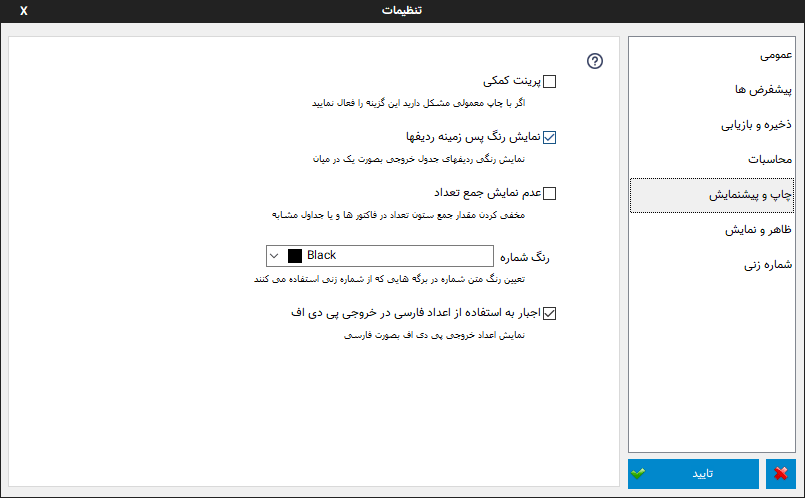
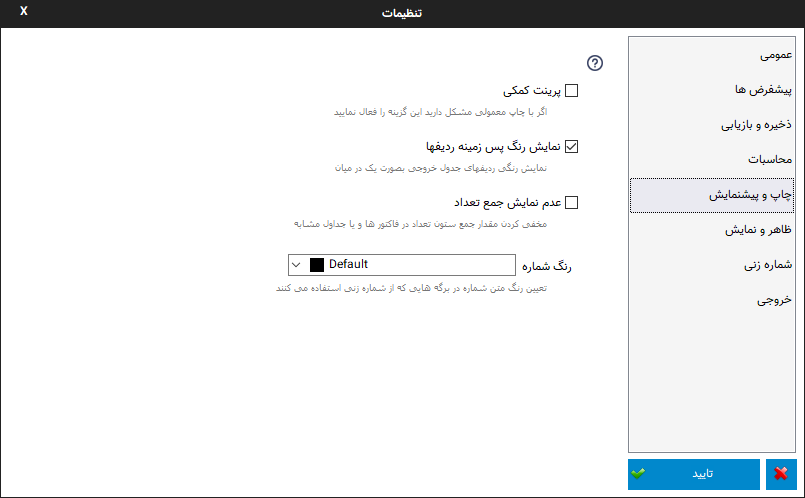
rc740

diff --git a/docs/source/conf.py b/docs/source/conf.py
@@ -20,11 +20,11 @@
 # -- Project information -----------------------------------------------------
 
 project = u' راهنمای نرم افزار فاکتور'
-copyright = u'2020, Mohsensoft'
+copyright = u'2021, Mohsensoft'
 author = u'Mohsen Bahraminejad, Mohammad reza khalifeh'
 
 # The short X.Y version
-version = u'2.8'
+version = u'2.9'
 # The full version, including alpha/beta/rc tags
 release = u'.rst'
 

diff --git a/docs/source/window-settings.rst b/docs/source/window-settings.rst
@@ -101,7 +101,7 @@
 | **نمایش رنگ پس زمینه ردیفها :** برای حذف رنگ پس زمینه ردیفهای فاکتور که معمولا بصورت یک در میان برای تمایز و تشخیص بهتر ردیفها کشیده می شوند از این گزینه استفاده کنید. توجه کنید که این گزینه در برگه های جدید که از این حالت پشتیبانی می کنند قابل انجام است.
 | **عدم نمایش جمع تعداد :** در صورتی که به نمایش جمع ستون تعداد در برگه هایی نظیر فاکتور نیاز ندارید و یا نمایش آن بخاطر مواردی نظیر عدم یکی بودن واحد ها معنیی ندارد میتوانید این گزینه را فعال نمایید.
 | **رنگ شماره :** توسط این گزینه میتوانید رنگ مقدار شماره در برگه هایی که این فیلد را دارند تعیین نمایید.
-| **اجبار به استفاده از اعداد فارسی در خروجی پی دی اف :** اگر نیاز ندارید که در خروجی پی دی اف اعداد بصورت کاراکترهای فارسی نمایش داده شوند این گزینه را غیر فعال نمایید.
+
 
 .. _setting-ui:
 
@@ -140,3 +140,16 @@
 | **تعیین کنید چه زمان هایی شماره جدید تعیین شود:** در این قسمت تعیین کنید چه زمانهایی بصورت خودکار نرم افزار برای شما شماره جدیدی اختصاص دهد.
 |
 | **شماره جدید با تائیدیه:** با فعال شدن این گزینه قبل از ایجاد شماره جدید پیغام پرسشی برای اینکار نمایش داده می شود و در صورت تایید این پیغام شماره جدید ایجاد میشود، این گزینه برای کاربرانی که ترتیب شماره ها برای آنها بسیار با اهمیت است کاربرد دارد.
+
+
+.. _setting-export:
+
+|newflag| خروجی
+-----------------------
+.. image:: images/setting_export.png
+    :alt: شماره زنی
+    :align: center
+
+| در این پنجره گزینه های مختلفی برای تنظیمات خروجی وجود دارد:
+| **خروجی جدول**: در این قسمت گزینه هایی برای خروجی csv وجود دارد که میبایست بنابر نیاز نرم افزار مقصد که قصد ارسال اطلاعات به آن را دارید این موارد را تنظیم نمایید.
+| **اجبار به استفاده از اعداد فارسی در خروجی پی دی اف :** اگر نیاز ندارید که در خروجی پی دی اف اعداد بصورت کاراکترهای فارسی نمایش داده شوند این گزینه را غیر فعال نمایید.

diff --git a/docs/source/changes-log.rst b/docs/source/changes-log.rst
@@ -8,13 +8,22 @@
 
 **ویرایش 5.3**
 -------------------
-* اضافه شدن امکان وارد کردن مستقیم فرمول ریاضی در جدول. |template|
-* اضافه شدن امکان تعیین نام پیشفرض برای ذخیره فایل. |template|
-* اضافه شدن گزینه هایی برای تنظیم خروجی csv. |template|
-* اضافه شدن دسترسی به کادر توضیحات و جمع نهایی به متن پویا. |template|
-* بهبود جستجو در انبار. |template|
-* اصلاح برخی موارد در گزارش انبار. |template|
-* اصلاح گزینه حذف سابقه فایلهای باز شده. |template|
+* اضافه شدن امکان وارد کردن مستقیم فرمول ریاضی در جدول. |inlinecalc|
+* اضافه شدن امکان تعیین نام پیشفرض برای ذخیره فایل. |settings_save|
+* اضافه شدن گزینه هایی برای تنظیم خروجی csv. |settings_export|
+* اضافه شدن دسترسی به کادر توضیحات و جمع نهایی به متن پویا. |dynamictext|
+* بهبود جستجو در انبار.
+* اصلاح برخی موارد در گزارش انبار.
+* اصلاح گزینه حذف سابقه فایلهای باز شده. |settings_save|
+  
+
+.. |inlinecalc| raw:: html
+
+    <a class="more_info" href="https://mohsensoft.com/docs/faktor/window-main.html#inlinecalc" target="_blank"></a>
+
+.. |settings_export| raw:: html
+
+    <a class="more_info" href="https://mohsensoft.com/docs/faktor/window-settings.html#setting-export" target="_blank"></a>
 
 
 **ویرایش 5.2**

diff --git a/docs/source/advanced.rst b/docs/source/advanced.rst
@@ -116,25 +116,31 @@
    * - جمع متنی
      - مقدار مبلغ قابل پرداخت بصورت متنی
      - پنجاه هزار ریال
+   * - تاریخ
+     - فیلد تاریخ برگه
+     - 1397/02/25
+   * - تاریخ متنی
+     - فیلد تاریخ برگه بصورت متنی
+     - بیست و پنجم ادیبهشت یک هزارو سیصد و نود و هفت
    * - زمان
      - ساعت و دقیقه کنونی
      - 14:30
    * - زمان کامل
      - ساعت، دقیقه و ثانیه کنونی
      - 14:50:21
-   * - تاریخ
+   * - تاریخ کنونی
      - تاریخ کنونی
      - 1397/02/25
-   * - تاریخ متنی
+   * - تاریخ کنونی متنی
      - تاریخ کنونی بصورت متنی
      - بیست و پنجم ادیبهشت یک هزارو سیصد و نود و هفت
-   * - ساعت
+   * - ساعت کنونی
      - ساعت کنونی
      - 14
-   * - دقیقه
+   * - دقیقه کنونی
      - دقیقه کنونی
      - 50
-   * - ثانیه
+   * - ثانیه کنونی
      - ثانیه کنونی
      - 21
    * - صفحات

diff --git a/docs/source/window-main.rst b/docs/source/window-main.rst
@@ -398,8 +398,8 @@
 
 | عملگرهای پشتیانی شده چهار عمل اصلی بعلاوه تقسیم صحیح و باقیمانده تقسیم میباشد که به شرح زیراند:
 
-* **جمع**. علامت آن همان کاراکتر "+" میباشد.
-* **تفریق**. علامت آن همان "-" میباشد.
+* **جمع**: علامت آن همان کاراکتر "+" میباشد.
+* **تفریق**: علامت آن همان "-" میباشد.
 * **ضرب**: برای علامت آن علاوه بر کاراکتر "*" میتوانید از ایکس "x" هم استفاده نمایید.
 * **تقسیم**: علامت آن اسلش "/" میباشد.
 * **تقسیم صحیح**: علامت آن بک اسلش "\" میباشد که برای محاسبه نتیجه یک تقسیم بدون در نظر گرفتن اعشار در مقدار نهایی بکار میرود.
